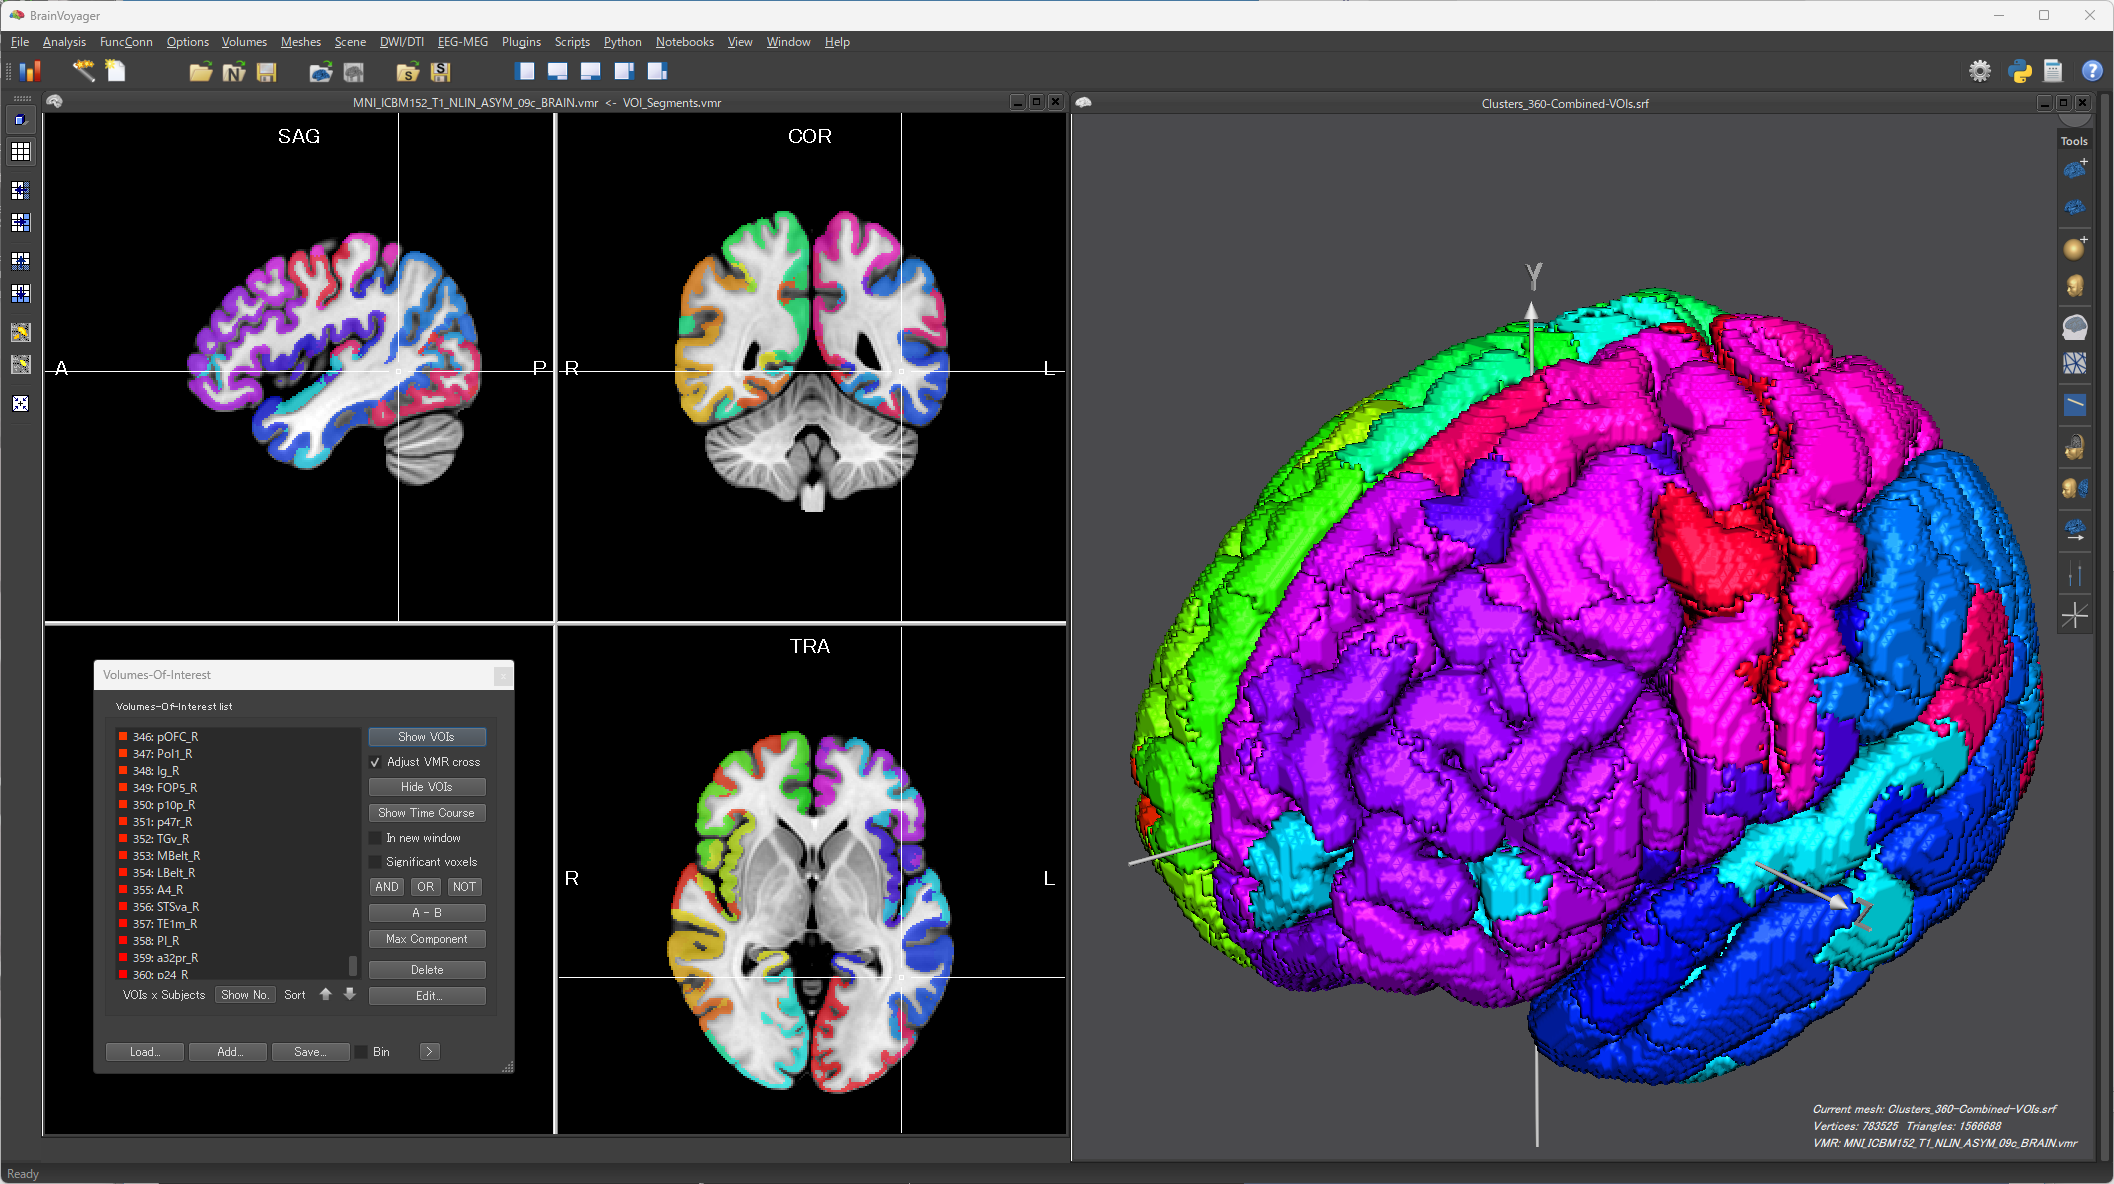
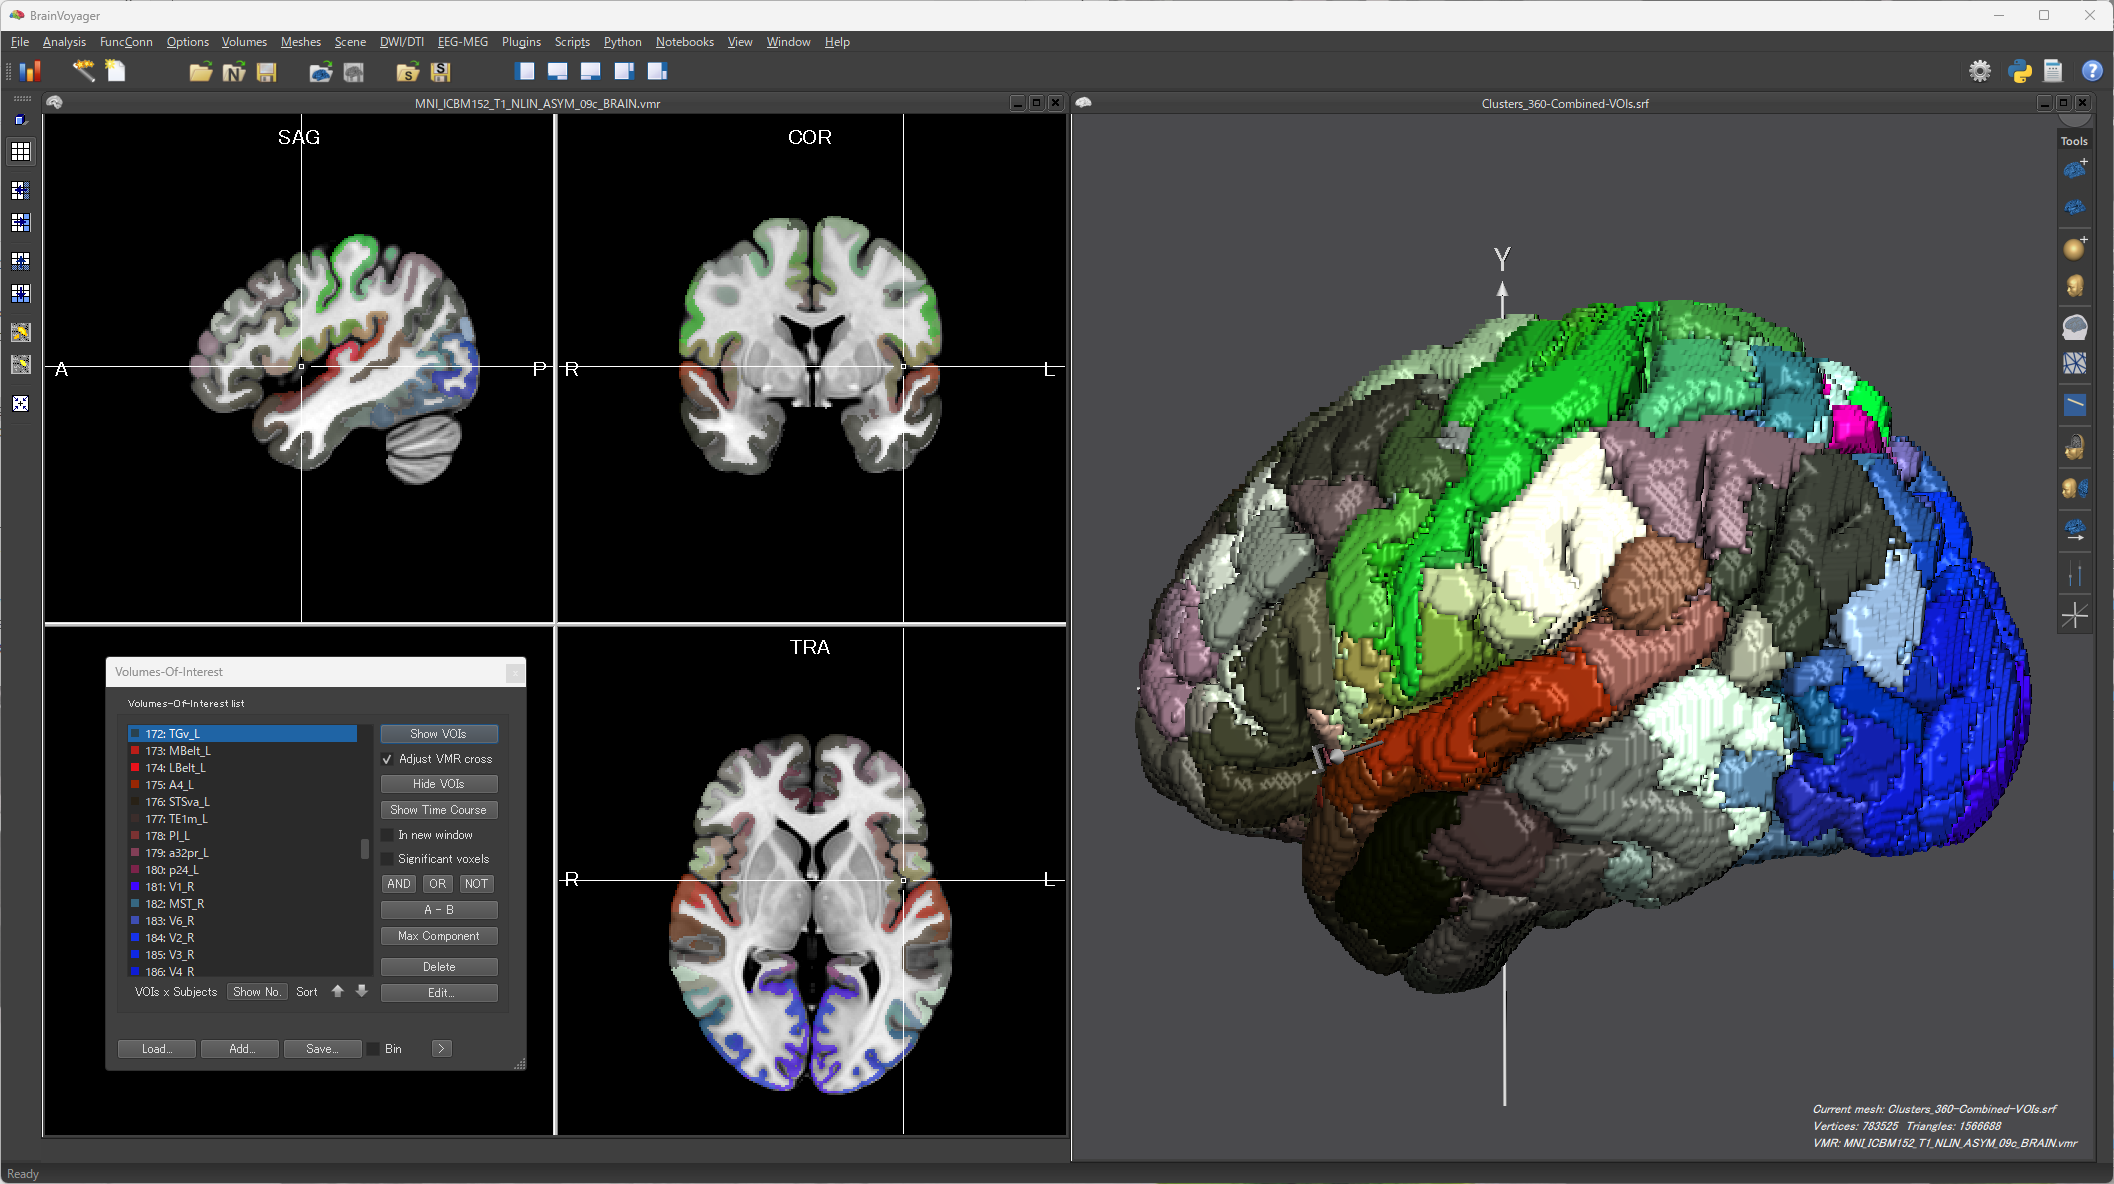
Updated HCP-MMP1_VOIs. Especially, added some routines to paint the VOIs with the original colors defined in the original HCP-MMP1 annotation files.

diff --git a/VOIs/HCP_MMP1_VOIs/script_convert_HCP_MMP1_to_VOI.m b/VOIs/HCP_MMP1_VOIs/script_convert_HCP_MMP1_to_VOI.m
@@ -1,0 +1,55 @@
+% script_script_coloring_HCP_MMP1_VOIs.m
+%
+% This script converts FSL HCP MMP1 NIFTI atlas (ROIs, e.g. HCP-MMP_1mm.nii.gz) to BrainVoyager VOIs.
+% Then, the script paints the generated HCP MMP1 VOIs with the colors defined in {lh|rh}.HCP-MMP1.annot
+% files diestributed in
+% https://figshare.com/articles/dataset/HCP-MMP1_0_projected_on_fsaverage/3498446
+%
+% see also:
+% https://osf.io/azup8
+%
+%
+% Created    : "2024-03-15 17:46:39 ban"
+% Last Update: "2024-07-09 23:36:47 ban"
+
+% loading BVQX_hbtools
+cv_hbtools_BVQX_setup(1);
+
+% converting FLS ROI (*.nii) to BrainVoyager VOIs.
+ConvertFSLroi2BVvoi('.','MNI','MNI','*cortices',1);
+ConvertFSLroi2BVvoi('.','MNI','MNI',{'';'*cortices'},1);
+
+% VOI coloring
+% from here the script paints the HCP MMP1 VOIs generated from nifti files (e.g. HCP-MMP_1mm.nii.gz)
+
+% some constants
+%VOIs={'HCP-MMP1/HCP-MMP1_1mm.nii.voi','HCP-MMP1/HCP-MMP1_2mm.nii.voi',...
+%      'HCP-MMP1_cortices/HCP-MMP1_cortices_1mm.nii.voi','HCP-MMP1_cortices/HCP-MMP1_cortices_2mm.nii.voi'};
+VOIs=wildcardsearch('.','*.voi');
+
+% loading colortable_lh and colortable_rh
+load(fullfile(fileparts(mfilename('fullpath')),'HCP_MMP1_annotation','FreeSurfer_HCP_MMP_ColorLUT.mat'));
+
+% processing
+for ii=1:1:length(VOIs)
+  fprintf('processing: %s...',VOIs{ii});
+  voi=BVQXfile(fullfile(fileparts(mfilename('fullpath')),VOIs{ii}));
+  for vv=1:1:voi.NrOfVOIs
+    for rr=1:1:colortable_lh.numEntries
+      if strcmp(voi.VOI(vv).Name,strcat(strrep(colortable_lh.struct_names{rr}(3:end),'_ROI',''),'_L'))
+        voi.VOI(vv).Color=colortable_lh.table(rr,1:3);
+      end
+    end
+
+    for rr=1:1:colortable_rh.numEntries
+      if strcmp(voi.VOI(vv).Name,strcat(strrep(colortable_rh.struct_names{rr}(3:end),'_ROI',''),'_R'))
+        voi.VOI(vv).Color=colortable_rh.table(rr,1:3);
+      end
+    end
+  end
+  voi.SaveAs(fullfile(fileparts(mfilename('fullpath')),VOIs{ii}));
+  fprintf('done.\n');
+end
+
+% unloading BVQX_hbtools
+cv_hbtools_BVQX_setup(0);
